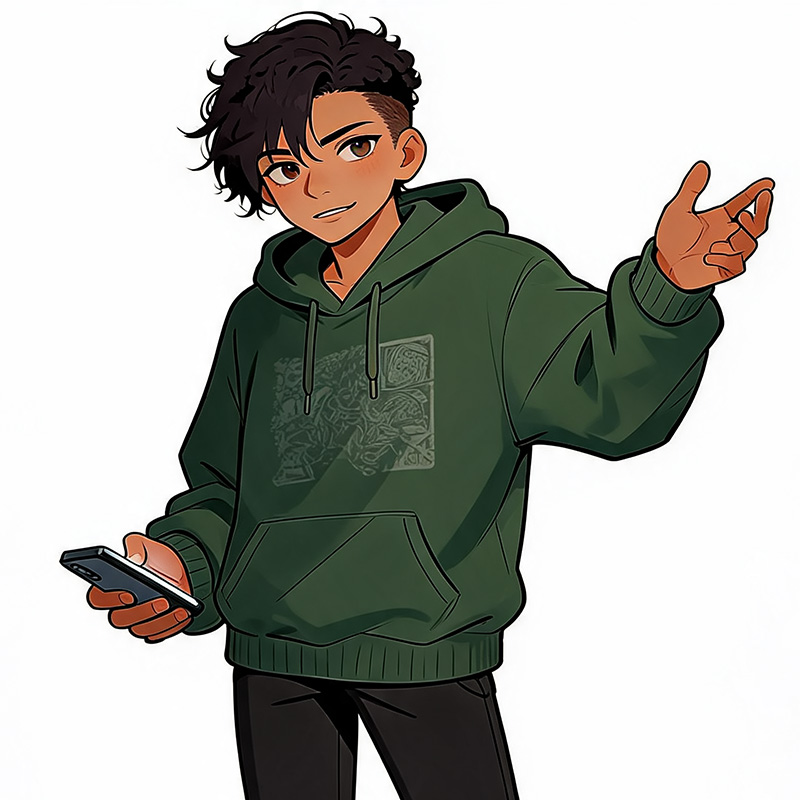
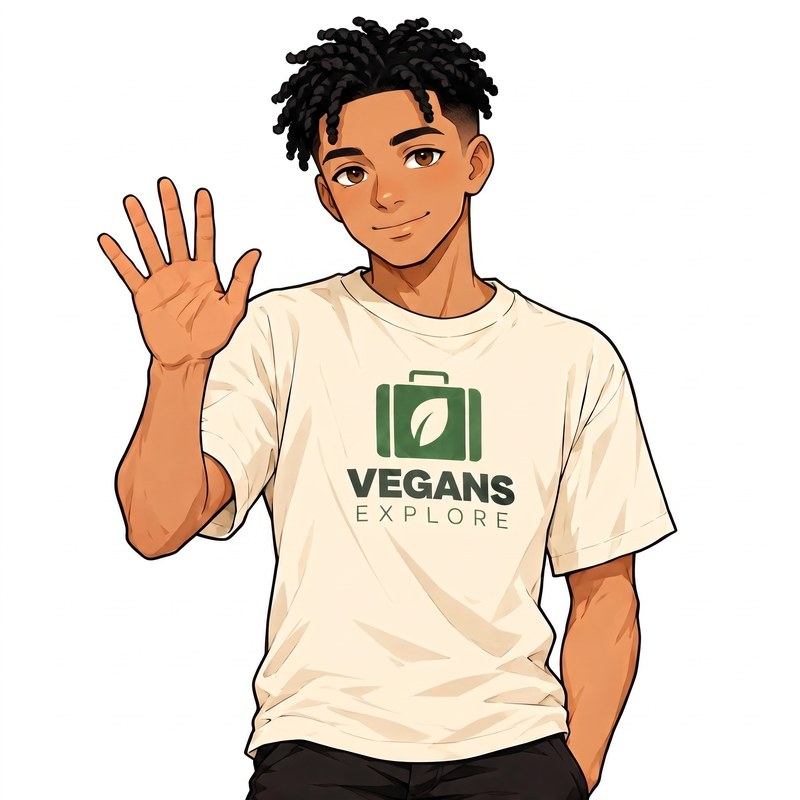
River's new look: short twists with a fade, square and tall
Sean picked the twists option of three on 2026-10-28. Both pictures live in
the repo and VE_GUIDE_ART points at them; river.jpg, used by older pages,
is the new mid shot.

Claude-Session: https://claude.ai/code/session_01Au68b27jYZqjUutg5Z1K7n

diff --git a/public/footer.js b/public/footer.js
@@ -84,8 +84,9 @@
     // Dani uses a wheelchair; she is always drawn seated in it.
     dani:   { square: ART + 'hf_20261005_024303_76de8533-470a-4b1d-bb44-e5f56174e262_min.webp',
               tall:   ART + 'hf_20261005_024303_762a3532-8e91-4be2-b1bb-0a12465f4c06_min.webp' },
-    river:  { square: ART + 'hf_20261005_024303_7f42e72b-fb79-4ee2-8ead-08a2709889ed_min.webp',
-              tall:   ART + 'hf_20261005_021227_3462df28-bdbf-44e8-966b-be725c189a21_min.webp' },
+    // River's refresh (Sean, 2026-10-28): in his 20s, short twists with a fade. Kept in the repo.
+    river:  { square: '/public/guides/art/river-square.webp',
+              tall:   '/public/guides/art/river-tall.webp' },
     // Pascal, the Cultural Bridge (the guide chat demo and the pitches); not in the member picker.
     pascal: { square: ART + 'hf_20261005_024303_7798f249-b17f-47e7-b7c5-704a8aae5ba5_min.webp',
               tall:   ART + 'hf_20261005_024304_5e1634a6-d9de-43d5-919a-1af4001dbf45_min.webp' }

diff --git a/CLAUDE.md b/CLAUDE.md
@@ -1897,7 +1897,8 @@ Guides on the Dairy Guide pattern, a venue mapped to the Vegan food inside it:
   would each launch thin; not "Game Day", since venues host concerts too; amphitheaters and concert venues can join later). The
   venue, its home teams, each stand with its Vegan items and where it is (section or gate). Our chapters' venues first, Hard Rock
   Stadium first (the Plant-Based Showcase). Narrator: River, after a character refresh (Sean, 2026-10-28: still in his 20s, a
-  new hairstyle and an updated look; options from his current art, Sean picks).
+  new hairstyle; of three options Sean picked short twists with a fade). His art is in the repo, `public/guides/art/river-square.webp`
+  and `river-tall.webp` (`VE_GUIDE_ART`), and `public/guides/river.jpg` (old pages) is the new mid shot.
 - **The Airport Guide**: the same layout by terminal and by before or after security. Our chapters' airports first, then the
   world. Narrator: Nori, who becomes the traveler (Sean, 2026-10-28: Liz has become the business Guide; Pascal is culinary and
   belongs on the food Guides, such as the Vegan Meat Alternatives Guide). Nori's Guide record still says Entrepreneur Guide.
